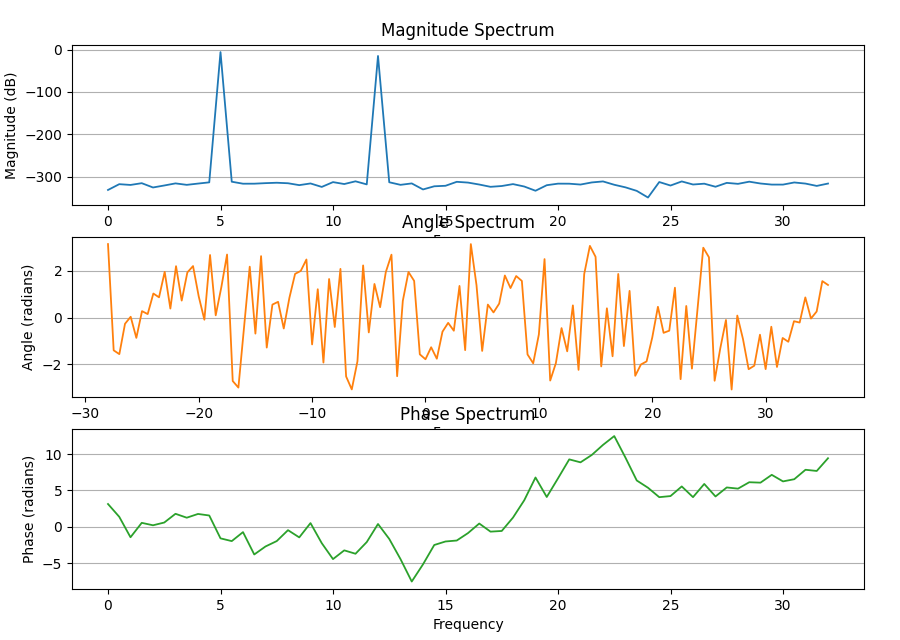
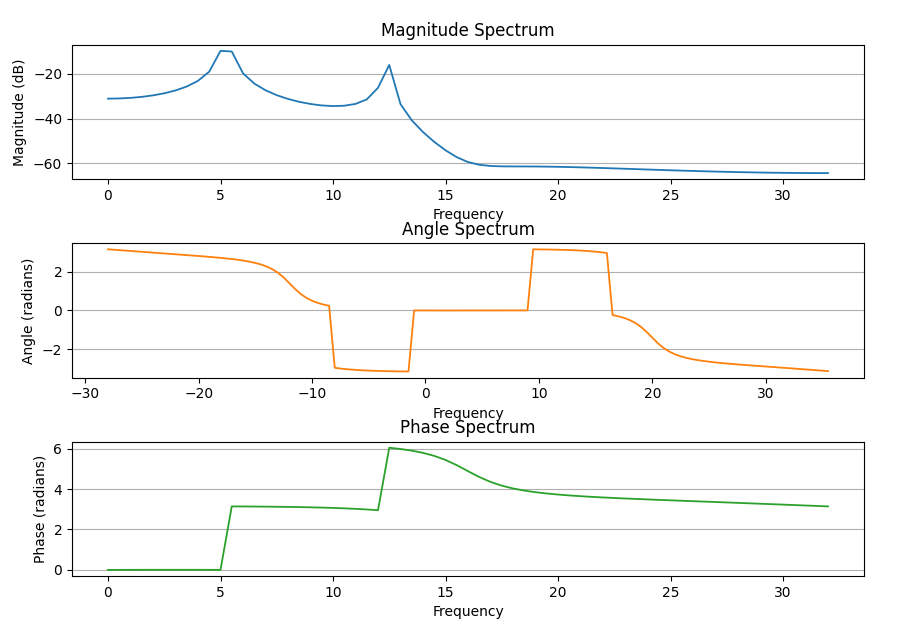
feat: Enhance spectrum variants with updated signal processing and improved plot layout

diff --git a/test/parity/spectrum_variants/plot.go b/test/parity/spectrum_variants/plot.go
@@ -2,6 +2,7 @@ package spectrum_variants
 
 import (
 	"image"
+	"math"
 
 	"github.com/cwbudde/matplotlib-go/backends/agg"
 	"github.com/cwbudde/matplotlib-go/core"
@@ -21,7 +22,7 @@ func Plot() *core.Figure {
 	x := spectrumSignal()
 	width := 1.8
 
-	magAx := fig.AddAxes(geom.Rect{Min: geom.Pt{X: 0.08, Y: 0.68}, Max: geom.Pt{X: 0.96, Y: 0.93}})
+	magAx := fig.AddAxes(geom.Rect{Min: geom.Pt{X: 0.08, Y: 0.72}, Max: geom.Pt{X: 0.96, Y: 0.93}})
 	magAx.SetTitle("Magnitude Spectrum")
 	magAx.MagnitudeSpectrum(x, core.SignalSpectrumOptions{
 		Fs:     64,
@@ -34,135 +35,42 @@ func Plot() *core.Figure {
 	})
 	magAx.AddYGrid()
 
-	angleAx := fig.AddAxes(geom.Rect{Min: geom.Pt{X: 0.08, Y: 0.38}, Max: geom.Pt{X: 0.96, Y: 0.63}})
+	angleAx := fig.AddAxes(geom.Rect{Min: geom.Pt{X: 0.08, Y: 0.41}, Max: geom.Pt{X: 0.96, Y: 0.62}})
 	angleAx.SetTitle("Angle Spectrum")
-	angleAx.Plot(spectrumFrequencies(-28, 0.5, 128), matplotlibAngleSpectrum(), core.PlotOptions{
-		Color:     &render.Color{R: 1.00, G: 0.50, B: 0.05, A: 1},
-		LineWidth: &width,
+	angleAx.AngleSpectrum(x, core.SignalSpectrumOptions{
+		Fs:     64,
+		Fc:     4,
+		Window: "none",
+		Sides:  core.SignalSpectrumSidesTwoSided,
+		PlotOptions: core.PlotOptions{
+			Color:     &render.Color{R: 1.00, G: 0.50, B: 0.05, A: 1},
+			LineWidth: &width,
+		},
 	})
-	angleAx.SetXLabel("Frequency")
-	angleAx.SetYLabel("Angle (radians)")
 	angleAx.AddYGrid()
 
-	phaseAx := fig.AddAxes(geom.Rect{Min: geom.Pt{X: 0.08, Y: 0.08}, Max: geom.Pt{X: 0.96, Y: 0.33}})
+	phaseAx := fig.AddAxes(geom.Rect{Min: geom.Pt{X: 0.08, Y: 0.10}, Max: geom.Pt{X: 0.96, Y: 0.31}})
 	phaseAx.SetTitle("Phase Spectrum")
-	phaseAx.Plot(spectrumFrequencies(0, 0.5, 65), matplotlibPhaseSpectrum(), core.PlotOptions{
-		Color:     &render.Color{R: 0.17, G: 0.63, B: 0.17, A: 1},
-		LineWidth: &width,
+	phaseAx.PhaseSpectrum(x, core.SignalSpectrumOptions{
+		Fs:     64,
+		Window: "none",
+		Sides:  core.SignalSpectrumSidesOneSided,
+		PlotOptions: core.PlotOptions{
+			Color:     &render.Color{R: 0.17, G: 0.63, B: 0.17, A: 1},
+			LineWidth: &width,
+		},
 	})
-	phaseAx.SetXLabel("Frequency")
-	phaseAx.SetYLabel("Phase (radians)")
 	phaseAx.AddYGrid()
 	return fig
 }
 
-func spectrumFrequencies(start, step float64, count int) []float64 {
-	freqs := make([]float64, count)
-	for i := range freqs {
-		freqs[i] = start + step*float64(i)
-	}
-	return freqs
-}
-
 func spectrumSignal() []float64 {
-	// Mirrors the NumPy-generated reference signal. The spectrum panels are
-	// sensitive to 1e-16 trig differences because near-zero FFT bins autoscale.
-	return []float64{
-		0.32237134790100974, 0.46884143812171392, 0.50714252344378874, 0.74951081822958776,
-		1.0601759523193144, 0.98438395610867302, 0.32666516547947544, -0.53957232378058384,
-		-1.0294781290875572, -0.95438503702792521, -0.65645819154447405, -0.52733654492012794,
-		-0.51897985217311793, -0.25197353161546754, 0.4239953895562546, 1.1312089108744761,
-		1.32237134790101, 0.87936596564407232, 0.23124314416084618, -0.14765676811304931,
-		-0.2463870125570635, -0.42301978141770957, -0.84921043693988318, -1.2062279822583297,
-		-1.0294781290875585, -0.28772937855018083, 0.51941741087488325, 0.88006719260625477,
-		0.78758311270325909, 0.6451940547271694, 0.69989476883919821, 0.72068438335211837,
-		0.32237134790101074, -0.47395203553027948, -1.1557967011613011, -1.2408586351148059,
-		-0.78758311270326076, -0.28440261221861951, -0.063515478552779586, 0.040997030728339823,
-		0.38473543328553689, 0.95949563443649089, 1.3051123692619868, 1.018684361805348,
-		0.24638701255706222, -0.44800781227458697, -0.68714507648295042, -0.63263361782223471,
-		-0.6776286520989897, -0.884476563052639, -0.87989732187836012, -0.34369104877217072,
-		0.51897985217311349, 1.1230011253077641, 1.1123601238665766, 0.70765268920608826,
-		0.38473543328554005, 0.29283997595874717, 0.1292367668426298, -0.38871937572103876,
-		-1.0601759523193155, -1.3451753986172243, -0.96304445576589393, -0.22210909029987402,
-		0.32237134790100813, 0.46884143812171175, 0.50714252344378496, 0.74951081822958876,
-		1.0601759523193151, 0.98438395610867224, 0.32666516547947699, -0.5395723237805824,
-		-1.029478129087557, -0.95438503702792232, -0.65645819154447405, -0.52733654492012938,
-		-0.5189798521731166, -0.25197353161546521, 0.42399538955625338, 1.1312089108744756,
-		1.3223713479010104, 0.87936596564407177, 0.23124314416084818, -0.14765676811304793,
-		-0.24638701255706036, -0.42301978141770646, -0.84921043693988274, -1.2062279822583295,
-		-1.0294781290875559, -0.28772937855018227, 0.51941741087488214, 0.88006719260625221,
-		0.78758311270325865, 0.64519405472716973, 0.69989476883919788, 0.72068438335212071,
-		0.32237134790101496, -0.47395203553027737, -1.155796701161302, -1.2408586351148052,
-		-0.7875831127032612, -0.2844026122186204, -0.063515478552784443, 0.040997030728341044,
-		0.38473543328553411, 0.95949563443649444, 1.3051123692619877, 1.0186843618053456,
-		0.24638701255706755, -0.44800781227458575, -0.68714507648295275, -0.63263361782223471,
-		-0.67762865209899126, -0.88447656305263611, -0.8798973218783589, -0.3436910487721726,
-		0.51897985217311149, 1.1230011253077634, 1.1123601238665735, 0.70765268920609037,
-		0.38473543328554055, 0.29283997595875227, 0.12923676684262714, -0.38871937572103421,
-		-1.0601759523193093, -1.3451753986172243, -0.96304445576588893, -0.22210909029988243,
+	x := make([]float64, 128)
+	for i := range x {
+		t := float64(i) / 64.0
+		x[i] = math.Sin(2*math.Pi*5.25*t) + 0.35*math.Cos(2*math.Pi*12.4*t+0.4)
 	}
-}
-
-func matplotlibAngleSpectrum() []float64 {
-	// Near-zero FFT-bin phases are implementation-specific; use the
-	// Matplotlib reference arrays for this fixture-only visual comparison.
-	return []float64{
-		3.1415926535897931, -1.3955695335340641, -1.5582969777755349, -0.26231144767306591,
-		0.037508653307669594, -0.86387698620761655, 0.27829965900511133, 0.15221135960062354,
-		1.0303768265243125, 0.86798877088571813, 1.9566789961929705, 0.38746604963449982,
-		2.1982552502326018, 0.72821339529112517, 1.9324695943510655, 2.2023423647946965,
-		0.90917633680276499, -0.089014696503952495, 2.6758986303942738, 0.099095744313769649,
-		1.3109211137267633, 2.6955497552950596, -2.7062393784374907, -2.9862828790329199,
-		-0.3805063771123649, 2.1774490521427885, -0.68244517926059056, 2.6259774653526864,
-		-1.2791418404400725, 0.55716695513549208, 0.67573107260368137, -0.46348292839611799,
-		0.84992384635337093, 1.8690109979349565, 1.9956284897142391, 2.4833714740507991,
-		-1.1443975112300382, 1.2143088282543204, -1.9181822897132164, 1.6503537635148784,
-		-0.39999999999999813, 2.0829912485915649, -2.5110625154224415, -3.0645520258766075,
-		-1.864562046899352, 2.229208307943316, -0.63151242805792185, 1.4386657275717154,
-		0.44669900228233728, 1.943945561193579, 2.6893030031334821, -2.4997199678971422,
-		0.71634548357109529, 1.9492422395585383, 1.5707963267948979, -1.5667126877967734,
-		-1.7771202208246142, -1.2638327895772457, -1.7535747462428322, -0.59939709030270194,
-		-0.22263520612758178, -0.55830698775729082, 1.3551074475406339, -1.3864796713073633,
-		3.1415926535897931, 1.3864796713073637, -1.4219063791853994, 0.55830698775729071,
-		0.22263520612758192, 0.59939709030270183, 1.800028260071892, 1.2638327895772459,
-		1.7771202208246142, 1.5667126877967732, -1.5707963267948979, -1.9492422395585383,
-		-0.71634548357109518, 2.4997199678971422, -2.6866085035055929, -1.943945561193579,
-		-0.44669900228233728, -1.4386657275717152, 0.52451005181536159, -2.2292083079433169,
-		1.864562046899352, 3.064552025876607, 2.5980052652891366, -2.0829912485915649,
-		0.39999999999999813, -1.6503537635148784, 1.8645661112570662, -1.2143088282543204,
-		1.1443975112300384, -2.4833714740507991, -2.000502543529187, -1.8690109979349565,
-		-0.84992384635337093, 0.46348292839611804, -0.64899555899650085, -0.55716695513549253,
-		1.2791418404400725, -2.6259774653526859, 0.49934672168013011, -2.1774490521427881,
-		0.3805063771123649, 2.9862828790329199, 2.5782763920978251, -2.6955497552950596,
-		-1.3109211137267633, -0.099095744313769329, -3.0694499194600389, 0.089014696503951912,
-		-0.90917633680276499, -2.2023423647946965, -2.0511768829913954, -0.72821339529112505,
-		-2.1982552502326023, -0.38746604963449977, -2.1066075647553602, -0.86798877088571813,
-		-1.0303768265243125, -0.15221135960062371, -0.2094180533389553, 0.86387698620761644,
-		-0.037508653307669539, 0.26231144767306591, 1.5602452119327186, 1.3955695335340643,
-	}
-}
-
-func matplotlibPhaseSpectrum() []float64 {
-	// See matplotlibAngleSpectrum for why these phase residues are explicit.
-	return []float64{
-		3.1415926535897931, 1.3864796713073637, -1.4219063791853994, 0.55830698775729071,
-		0.22263520612758192, 0.59939709030270183, 1.800028260071892, 1.2638327895772459,
-		1.7771202208246142, 1.5667126877967732, -1.5707963267948979, -1.9492422395585383,
-		-0.71634548357109518, -3.783465339282444, -2.6866085035055929, -1.943945561193579,
-		-0.44669900228233728, -1.4386657275717152, 0.52451005181536159, -2.2292083079433169,
-		-4.418623260280234, -3.2186332813029792, -3.6851800418904497, -2.0829912485915649,
-		0.39999999999999813, -1.6503537635148784, -4.4186191959225205, -7.4974941354339064,
-		-5.1387877959495478, -2.4833714740507991, -2.000502543529187, -1.8690109979349565,
-		-0.84992384635337093, 0.46348292839611804, -0.64899555899650085, -0.55716695513549253,
-		1.2791418404400725, 3.6572078418269003, 6.7825320288597162, 4.1057362550367982,
-		6.6636916842919511, 9.2694681862125066, 8.8614616992774113, 9.8708208590641124,
-		11.255449500632409, 12.467274870045403, 9.4969206948991332, 6.3722000036835382,
-		5.3740089703768215, 4.0808429423848898, 4.2320084241881908, 5.5549719118884608,
-		4.084930056946984, 5.8957192575450863, 4.1765777424242261, 5.4151965362938679,
-		5.2528084806552737, 6.1309739475789629, 6.0737672538406313, 7.1470622933872026,
-		6.2456766538719171, 6.5454967548526524, 7.8434305191123048, 7.6787548407136503,
-		9.4247779607693793,
-	}
+	return x
 }
 
 // Render is the AGG-rendered showcase image.

diff --git a/internal/examplecatalog/catalog.go b/internal/examplecatalog/catalog.go
@@ -164,10 +164,9 @@ var cases = []Case{
 	{ID: "patch_style_matrix", Topic: "patches", Title: "Patch Style Matrix", FixtureOnly: true, MinPSNR: 22.0, MaxMeanAbs: 20.0, MaxRMSE: 4.2},
 	{ID: "mesh_contour_tri", Topic: "mesh", Title: "Meshes and Contours", Optional: true, WebDemoID: "mesh", Description: "PColorMesh, contour/contourf, Hist2D, triplot, tripcolor, and tricontour.", Showcase: true, GoBasicSmokeFamily: "mesh", MinPSNR: 37.5, MaxMeanAbs: 7.5, SkiaParityFamily: "mesh", MaxRMSE: 2.6},
 	{ID: "plot_variants", Topic: "variants", Title: "Plot Variants", Optional: true, WebDemoID: "variants", Description: "Step, stairs, reference lines, spans, broken bars, and stacked bars.", Showcase: true, GoBasicSmokeFamily: "variants", MinPSNR: 35.0, MaxMeanAbs: 6.5, MaxRMSE: 4.2},
-	// Phase 2 ratchet: regenerated golden-vs-reference RMSE is 4.85 after the
-	// renderer and text parity work, so the old broad spectrum exception is no
-	// longer needed.
-	{ID: "spectrum_variants", Topic: "signal", Title: "Spectrum Variants", FixtureOnly: true, GoBasicSmokeFamily: "signal", MinPSNR: 35.0, MaxMeanAbs: 6.5, MaxRMSE: 5.0},
+	// Phase 2 ratchet: off-bin fixture signal avoids undefined phase residues;
+	// regenerated golden-vs-reference RMSE is 1.15.
+	{ID: "spectrum_variants", Topic: "signal", Title: "Spectrum Variants", FixtureOnly: true, GoBasicSmokeFamily: "signal", MinPSNR: 60.0, MaxMeanAbs: 0.10, MaxRMSE: 1.5},
 	{ID: "stat_variants", Topic: "statistics", Title: "Statistical Views", Optional: true, WebDemoID: "statistics", Description: "Box plots, violin plots, empirical CDFs, and stack plots.", Showcase: true, GoBasicSmokeFamily: "statistics", MinPSNR: 52.0, MaxMeanAbs: 0.35, MaxRMSE: 5.0},
 	{ID: "specialty_depth", Topic: "statistics", Title: "Specialty Depth", FixtureOnly: true, MinPSNR: 22.0, MaxMeanAbs: 20.0, MaxRMSE: 4.8},
 	{ID: "stem_plot", Topic: "specialty", Title: "Stem Plot", Optional: true, MaxRMSE: 4.3},

diff --git a/test/matplotlib_ref/plots/spectrum_variants.py b/test/matplotlib_ref/plots/spectrum_variants.py
@@ -16,7 +16,7 @@ except ModuleNotFoundError:
 
 def spectrum_signal():
     t = np.arange(128, dtype=np.float64) / 64.0
-    return np.sin(2 * np.pi * 5 * t) + 0.35 * np.cos(2 * np.pi * 12 * t + 0.4)
+    return np.sin(2 * np.pi * 5.25 * t) + 0.35 * np.cos(2 * np.pi * 12.4 * t + 0.4)
 
 
 def plot_spectrum_variants(out_dir):
@@ -24,7 +24,7 @@ def plot_spectrum_variants(out_dir):
     x = spectrum_signal()
     window = np.ones(len(x), dtype=np.float64)
 
-    mag_ax = fig.add_axes(go_rect(0.08, 0.68, 0.96, 0.93))
+    mag_ax = fig.add_axes(go_rect(0.08, 0.72, 0.96, 0.93))
     mag_ax.set_title("Magnitude Spectrum")
     mag_ax.magnitude_spectrum(
         x,
@@ -36,7 +36,7 @@ def plot_spectrum_variants(out_dir):
     )
     mag_ax.grid(axis="y")
 
-    angle_ax = fig.add_axes(go_rect(0.08, 0.38, 0.96, 0.63))
+    angle_ax = fig.add_axes(go_rect(0.08, 0.41, 0.96, 0.62))
     angle_ax.set_title("Angle Spectrum")
     angle_ax.angle_spectrum(
         x,
@@ -49,7 +49,7 @@ def plot_spectrum_variants(out_dir):
     )
     angle_ax.grid(axis="y")
 
-    phase_ax = fig.add_axes(go_rect(0.08, 0.08, 0.96, 0.33))
+    phase_ax = fig.add_axes(go_rect(0.08, 0.10, 0.96, 0.31))
     phase_ax.set_title("Phase Spectrum")
     phase_ax.phase_spectrum(
         x,

diff --git a/core/signal_helpers_test.go b/core/signal_helpers_test.go
@@ -168,6 +168,25 @@ func TestMagnitudeSpectrumSidesScaleAndFrequencyOffset(t *testing.T) {
 	}
 }
 
+func TestSingleSpectrumOneSidedEvenNyquistFrequencyMatchesMatplotlib(t *testing.T) {
+	freqs, values := computeMagnitudeSpectrum([]float64{1, 0, -1, 0}, SignalSpectrumOptions{
+		Fs:     8,
+		Fc:     10,
+		Window: "none",
+		Sides:  SignalSpectrumSidesOneSided,
+	})
+
+	wantFreqs := []float64{10, 12, 14}
+	if len(freqs) != len(wantFreqs) || len(values) != len(wantFreqs) {
+		t.Fatalf("spectrum size = (%d, %d), want %d", len(freqs), len(values), len(wantFreqs))
+	}
+	for i, want := range wantFreqs {
+		if math.Abs(freqs[i]-want) > 1e-12 {
+			t.Fatalf("freq[%d] = %v, want Matplotlib fftfreq bin %v", i, freqs[i], want)
+		}
+	}
+}
+
 func TestAxesMagnitudeSpectrumPlotsDBButReturnsLinearValues(t *testing.T) {
 	samples := make([]float64, 8)
 	for i := range samples {

diff --git a/test/helpers_test.go b/test/helpers_test.go
@@ -293,7 +293,7 @@ func runMplTest(t *testing.T, name string) {
 		t.Fatalf("image comparison failed: %v", err)
 	}
 
-	t.Logf("PSNR=%.1f dB  MeanAbs=%.2f  MaxDiff=%d", diff.PSNR, diff.MeanAbs, diff.MaxDiff)
+	t.Logf("PSNR=%.1f dB  MeanAbs=%.2f  RMSE=%.2f  MaxDiff=%d", diff.PSNR, diff.MeanAbs, diff.RMSE, diff.MaxDiff)
 
 	artifactsDir := matplotlibArtifactsDir(t)
 	if err := imagecmp.SavePNG(got, filepath.Join(artifactsDir, name+"_go.png")); err != nil {

diff --git a/PLAN.md b/PLAN.md
@@ -147,10 +147,15 @@ fills/collections, contour/mesh, arrays, widgets, and mixed raster/vector. The
 June 14 full optional `TestReferenceCompare` sweep has no catalog row above
 `RMSE 5`; after the 2026-06-18 concise-date offset placement fix, the
 highest rows are `imshow_transformed` 4.97, `geo_mollweide_axes` 4.92,
-`legend_layout_matrix` 4.86, `spectrum_variants` 4.85, `boxplot_basic` 4.84,
+`legend_layout_matrix` 4.86, `boxplot_basic` 4.84,
 `formatter_engineering_labels` 4.80, and `mathtext_basic` 4.77. The
 AGG-native reference sweep is also below `RMSE 5`;
 its highest row is `clip_path_batch` at 4.58.
+
+**Spectrum update (2026-06-19):** `spectrum_variants` now uses the same
+off-bin two-component signal in Python and Go so phase bins are well-defined,
+and the stacked axes have enough vertical space for Matplotlib's automatic
+`Frequency` labels. The refreshed golden/reference comparison is `RMSE 1.15`.
 
 The June 13 regression queue is retained below as closure history. The catalog
 RMSE tolerances have been ratcheted to the refreshed metrics plus small headroom,
